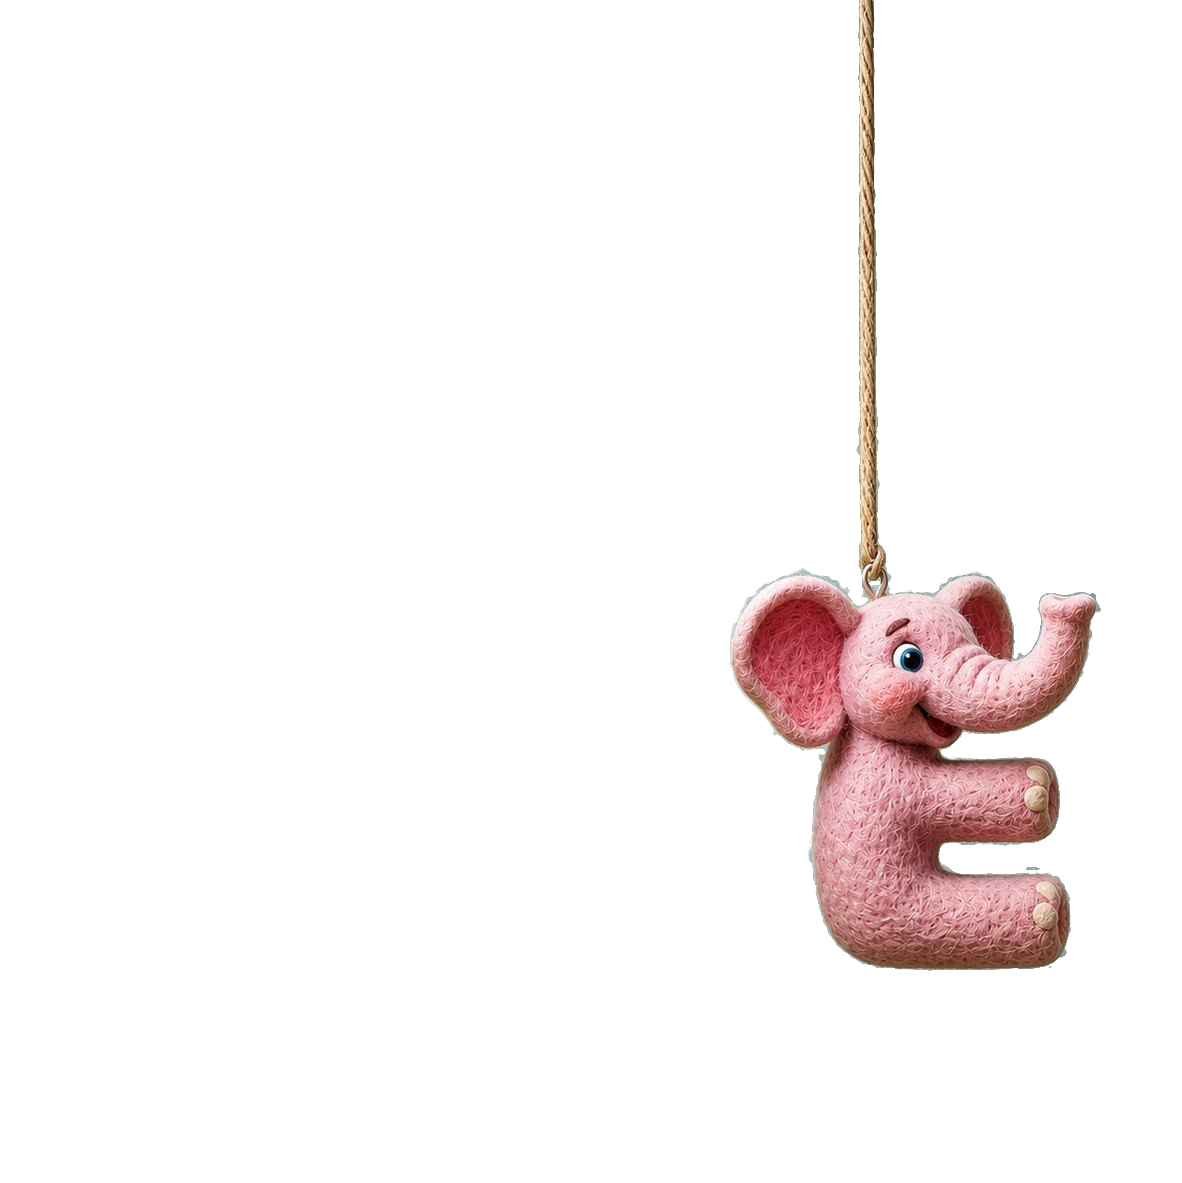
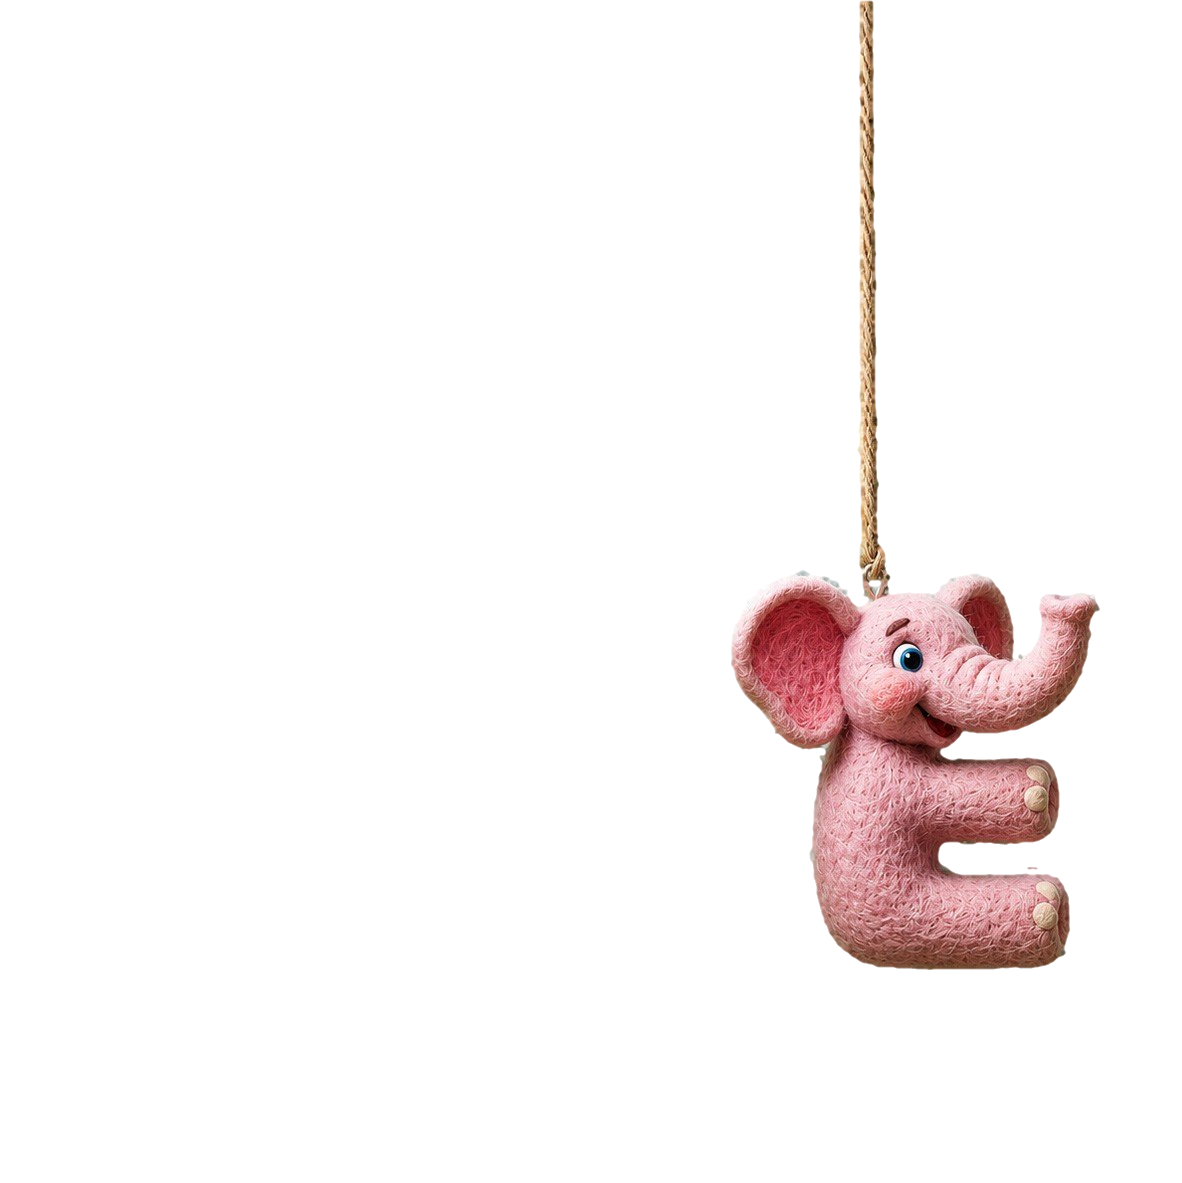
Take the leftover white matte off the mark

Changed region(s): [[0.7005, 0.4565, 0.7614, 0.5173], [0.8528, 0.7303, 0.8832, 0.7608], [0.8528, 0.5173, 0.8832, 0.5478]]

diff --git a/scripts/unmatte-mark.py b/scripts/unmatte-mark.py
@@ -1,0 +1,145 @@
+#!/usr/bin/env python3
+"""Take the leftover white matte off the mark's silhouette.
+
+WHAT WAS WRONG. The artwork reached us cut out of a near-white background,
+and the cut kept a one to two pixel rim of that background blended into the
+object, at full opacity. Over the warm set the rim reads as a bright outline
+traced around every letter, and once the hero's camera dollies in it is the
+halo that showed around the C and the lion. Measured on the delivered
+mark-c@2x: 6,439 fully opaque pixels around the antennae sit cold
+(107, 139, 171) against an interior that averages warm (134, 116, 101).
+
+WHY NOT UN-MATTE IT PROPERLY. The usual repair, F = (C - (1-k)W) / k, needs
+the coverage k, and these pixels are opaque: alpha is 1 right across the rim,
+so k was discarded when the file was written. There is nothing to solve for.
+
+WHAT THIS DOES INSTEAD, in two independent halves:
+
+  COLOUR. Every pixel that is not comfortably inside the silhouette has its
+  colour replaced by colour bled outward from the interior. Whatever the edge
+  ends up covering is then wool rather than background. This is the half that
+  does most of the work, and it is safe everywhere, including on a string one
+  pixel wide.
+
+  SHAPE. The silhouette is pulled in by about a pixel, by blurring the alpha
+  and re-thresholding it, which walks a level set inward and so keeps curves
+  round. A plain erosion was tried first and chewed the ball off the end of
+  the antenna. The threshold is taken against the LOCAL peak of the blurred
+  alpha rather than against 1: blurring a feature only a few pixels wide
+  lowers its peak, so a fixed threshold dissolves it, and the first run of
+  this script did exactly that to the hanging strings. Scaling the threshold
+  by the local peak trims a thin feature in proportion to itself.
+
+The mark loses about half a pixel at 1x. Nothing inside the silhouette moves.
+Re-runnable, but not idempotent: run it on the committed originals, not on
+its own output.
+"""
+import sys
+from pathlib import Path
+import numpy as np
+from PIL import Image
+
+BRAND = Path(__file__).resolve().parent.parent / "public" / "brand"
+STEMS = ["cle-mark", "mark-c", "mark-e", "mark-l", "mark-word"]
+
+# Fraction of the local peak that becomes the new edge. 0.5 would leave the
+# shape where it is; 0.58 is the smallest step that clears the rim.
+LEVEL = 0.58
+# Fraction at which the alpha is full again, so the new edge keeps a ramp.
+FULL = 0.97
+
+
+def shift(a, dy, dx):
+    return np.roll(np.roll(a, dy, axis=0), dx, axis=1)
+
+
+NEIGHBOURS = ((-1, 0), (1, 0), (0, -1), (0, 1), (-1, -1), (-1, 1), (1, -1), (1, 1))
+
+
+def box3(a):
+    s = np.zeros_like(a)
+    for dy in (-1, 0, 1):
+        for dx in (-1, 0, 1):
+            s += shift(a, dy, dx)
+    return s / 9.0
+
+
+def dilate(a, n):
+    for _ in range(n):
+        m = a.copy()
+        for dy, dx in NEIGHBOURS:
+            m = np.maximum(m, shift(a, dy, dx))
+        a = m
+    return a
+
+
+def depth(mask, k):
+    """How many erosions a pixel survives, capped at k: a thickness in pixels."""
+    m = mask.astype(np.float64)
+    d = np.zeros_like(m)
+    for _ in range(k):
+        e = m.copy()
+        for dy, dx in NEIGHBOURS:
+            e = np.minimum(e, shift(m, dy, dx))
+        m = e
+        d += m
+    return d
+
+
+def bleed(rgb, known, rounds=48):
+    """Push colour outward from the known region, one ring of pixels a round."""
+    out = rgb.astype(np.float64).copy()
+    have = known.copy()
+    for _ in range(rounds):
+        if have.all():
+            break
+        acc = np.zeros_like(out)
+        cnt = np.zeros(out.shape[:2])
+        # Diagonals at half weight: an even box drags colour along the edge
+        # rather than out from it.
+        for dy, dx, w in ((-1, 0, 1.0), (1, 0, 1.0), (0, -1, 1.0), (0, 1, 1.0),
+                          (-1, -1, 0.5), (-1, 1, 0.5), (1, -1, 0.5), (1, 1, 0.5)):
+            acc += shift(out, dy, dx) * (shift(have, dy, dx) * w)[..., None]
+            cnt += shift(have, dy, dx) * w
+        fill = (~have) & (cnt > 0)
+        if not fill.any():
+            break
+        out[fill] = acc[fill] / cnt[fill][..., None]
+        have |= fill
+    return out
+
+
+def process(name: str, scale: int) -> str:
+    path = BRAND / f"{name}.png"
+    src = np.asarray(Image.open(path).convert("RGBA")).astype(np.float64)
+    alpha = src[..., 3] / 255.0
+    rgb = src[..., :3]
+
+    blurred = alpha
+    for _ in range(scale):
+        blurred = box3(blurred)
+    peak = np.maximum(dilate(blurred, 3 * scale), 1e-6)
+    lo, hi = LEVEL * peak, FULL * peak
+    pulled = np.clip((blurred - lo) / np.maximum(hi - lo, 1e-6), 0.0, 1.0)
+    # Never add alpha: this operation only ever takes the silhouette in.
+    pulled = np.minimum(pulled, alpha)
+
+    trusted = depth(alpha > 0.5, 6) >= scale + 1
+    recoloured = np.where(trusted[..., None], rgb, bleed(rgb, trusted))
+
+    out = np.dstack([recoloured, pulled * 255.0])
+    img = Image.fromarray(np.clip(out + 0.5, 0, 255).astype(np.uint8), "RGBA")
+    img.save(path)
+    img.save(BRAND / f"{name}.webp", lossless=True, quality=100, method=6)
+
+    before = float((alpha > 0.5).sum())
+    return f"{name}: {1 - (pulled > 0.5).sum() / max(before, 1):.2%} of the silhouette trimmed"
+
+
+if __name__ == "__main__":
+    for stem in STEMS:
+        for name, scale in ((stem, 1), (f"{stem}@2x", 2)):
+            if (BRAND / f"{name}.png").exists():
+                print(process(name, scale))
+            else:
+                print(f"{name}: missing", file=sys.stderr)
